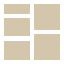
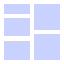
qtile bar +  :tada:

diff --git a/qtile/.config/qtile/config.py b/qtile/.config/qtile/config.py
@@ -331,11 +331,10 @@ group_names: List[str] = ["1", "2", "3", "4", "5", "6", "7", "8", "9", "0"]
 
 # groups = [
 #     Group(f"{i + 1}", label="") for i in range(9)
-# ]  
-groups = [
-    Group(f"{i + 1}", label="⬡")
-    for i in range(9)
-]
+# ]
+# groups = [Group(f"{i + 1}", label="⬡") for i in range(9)]
+
+groups = [Group(f"{i + 1}", label="") for i in range(8)]
 
 for i in groups:
     keys.extend([
@@ -425,20 +424,21 @@ screens = [
                 widget.Image(
                     filename="~/.config/qtile/Assets/6.png",
                 ),
+
                 widget.GroupBox(
                     fontsize=16,
                     borderwidth=0,
-                    highlight_method="block",
-                    active="#56D9C7",
-                    block_highlight_text_color="#00F076",  # Current workspace circle color
-                    highlight_color="#4B427E",
-                    inactive="#052A25",  # Empty workspace circle
-                    foreground="#046F5F",
+                    highlight_method="text",
+                    active="#C274B1C2",
+                    block_highlight_text_color="#BD2606",
+                    highlight_color="#BD2606",
+                    inactive="#C9D1FF12",
+                    foreground="#C9D1FF19",
                     background="#046F5F",
-                    this_current_screen_border="#00361A",  # Circle background color
-                    this_screen_border="#52548D",
-                    other_current_screen_border="#52548D",
-                    other_screen_border="#52548D",
+                    this_current_screen_border="#BD2606",
+                    this_screen_border="#BD2606",
+                    other_current_screen_border="0A427F52",
+                    other_screen_border="0A427F52",
                     urgent_border="#52548D",
                     rounded=True,
                     disable_drag=True,
@@ -452,14 +452,15 @@ screens = [
                 widget.CurrentLayoutIcon(
                     custom_icon_paths=["~/.config/qtile/Assets/layout"],
                     background="#046F5F",
-                    padding=6,
+                    padding=4,
                     scale=0.55,
                 ),
                 widget.CurrentLayout(
                     background="#046F5F",
+                    foreground="#C9D1FF",
                     font=MAIN_FONT,
                     fontsize=15,
-                    padding=0,
+                    padding=2,
                 ),
                 widget.Image(
                     filename="~/.config/qtile/Assets/5.png",
@@ -469,10 +470,11 @@ screens = [
                 ),
                 widget.WindowName(
                     background="#046F5F",
-                    format="{name}",
+                    foreground="#C9D1FF",
+                    format=" {name}",
                     font=MAIN_FONT,
                     fontsize=14,
-                    empty_group_string="A R C * Z E N",
+                    empty_group_string="  A R C * Z E N",
                     padding=0,
                 ),
                 widget.Image(
@@ -485,15 +487,16 @@ screens = [
                 widget.Image(
                     filename="/home/enos/.config/qtile/Assets/cpu.png",
                     background="#046F5F",
-                    scale=0.012,
+                    margin_y=4,
                 ),
                 widget.CPU(
                     font=MAIN_FONT,
-                    format=" {load_percent:.1f}%/{freq_current}GHz",
+                    format=" {load_percent:.1f}%  {freq_current}GHz",
                     fontsize=15,
                     margin=0,
                     padding=0,
                     background="#046F5F",
+                    foreground="#C9D1FF1A",
                     mouse_callbacks={"Button1": open_btop},
                 ),
                 widget.Image(
@@ -507,6 +510,7 @@ screens = [
                     background="#046F5F",
                     icon_size=24,
                     padding=3,
+                    foreground="#C9D1FF",
                 ),
                 widget.Image(
                     filename="~/.config/qtile/Assets/5.png",
@@ -525,7 +529,7 @@ screens = [
                     background="#046F5F",
                 ),
                 widget.Memory(
-                    format="{MemUsed:.0f}MB/{MemTotal:.0f}MB",
+                    format="{MemUsed:.0f}MB  {MemTotal:.0f}MB",
                     font=MAIN_FONT,
                     fontsize=15,
                     padding=0,
@@ -539,15 +543,12 @@ screens = [
                 ),
                 # volume
                 widget.Volume(
-                    fontsize=13,
                     theme_path="/home/enos/.config/qtile/Assets/Volume/",
                     emoji=True,
                     background="#046F5F",
-                    scale=True,
-                    margin_y=3,
                 ),
                 widget.Spacer(
-                    length=4,
+                    length=3,
                     background="#046f5f",
                 ),
                 widget.PulseVolume(
@@ -566,14 +567,14 @@ screens = [
                 ),
                 # battery
                 widget.BatteryIcon(
-                    emoji=True,
                     theme_path="/home/enos/.config/qtile/Assets/Battery/",
                     update_interval=60,
+                    background="#046F5F",
                 ),
                 widget.Battery(
-                    fontsize=13,
+                    fontsize=15,
                     background="#046F5F",
-                    foreground="#E5B9C6",
+                    foreground="#D0A1D4",
                     format="{percent:2.0%}",
                     low_percentage=0.2,
                     low_foreground="#DC143C",
@@ -594,11 +595,12 @@ screens = [
                     background="#046f5f",
                 ),
                 widget.Clock(
-                    format="%d/%m/%y ",
+                    format="%d-%m-%y ",
                     background="#046f5f",
                     font=MAIN_FONT,
                     fontsize=15,
                     padding=0,
+                    foreground="#B1C6D8",
                 ),
                 widget.Image(
                     filename="/home/enos/.config/qtile/Assets/misc/clock.png",
@@ -610,7 +612,7 @@ screens = [
                 widget.Clock(
                     format="%H:%M",
                     background="#046f5f",
-                    foreground="#e9f4ff",
+                    foreground="#C9D1FF1A",
                     font=MAIN_FONT,
                     fontsize=15,
                     padding=0,
